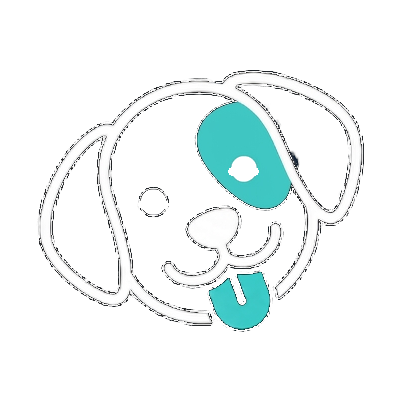
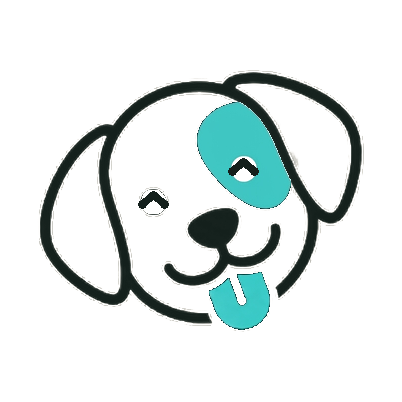
Site: ink dog mark, smoother scroll reveal
Recolor spot-icon.png and spot-icon-blink.png in place: white strokes to
--ink (#14201C), dark eye/nose details to --paper, teal patch and tongue
untouched. The white line art was near-invisible on the paper background.
Favicons and og-image are separate assets and unchanged.

Scroll reveal: rise 18px over 900ms (was 12px over 500ms), same easing.
Observer now fires at threshold 0 with a -6% bottom rootMargin, so a
keyboard jump or anchor link never leaves a skipped section blank.

diff --git a/shared.css b/shared.css
@@ -741,9 +741,10 @@ footer{position:relative;border-top:1px solid var(--rule);padding:76px 24px 40px
 .footer-bottom{max-width:var(--max);margin:44px auto 0;padding-top:24px;border-top:1px solid var(--rule);font-size:13px;color:var(--ink-2);line-height:1.7;font-family:var(--font-sans);}
 
 /* ---------- Motion: scroll reveal. Each section rises 12px and fades in
-   over 500ms the first time 15% of it is visible; runs once, honors
+   over 900ms as soon as any of it enters the viewport (threshold 0, so a
+   keyboard jump or anchor link never leaves a skipped section blank); runs once, honors
    reduced motion (see html.js gate in each page's head script). ---------- */
-html.js .reveal{opacity:0;transform:translateY(12px);transition:opacity .5s var(--ease),transform .5s var(--ease);}
+html.js .reveal{opacity:0;transform:translateY(18px);transition:opacity .9s var(--ease),transform .9s var(--ease);}
 html.js .reveal.is-visible{opacity:1;transform:translateY(0);}
 
 /* ---------- Responsive: footer + sections (shared) ---------- */

diff --git a/shared.js b/shared.js
@@ -124,7 +124,7 @@ SpotwiseMotion.countUp();
         obs.unobserve(e.target);
       }
     });
-  }, { threshold: 0.15 });
+  }, { threshold: 0, rootMargin: "0px 0px -6% 0px" });
   els.forEach(function (el) { obs.observe(el); });
 })();
 
